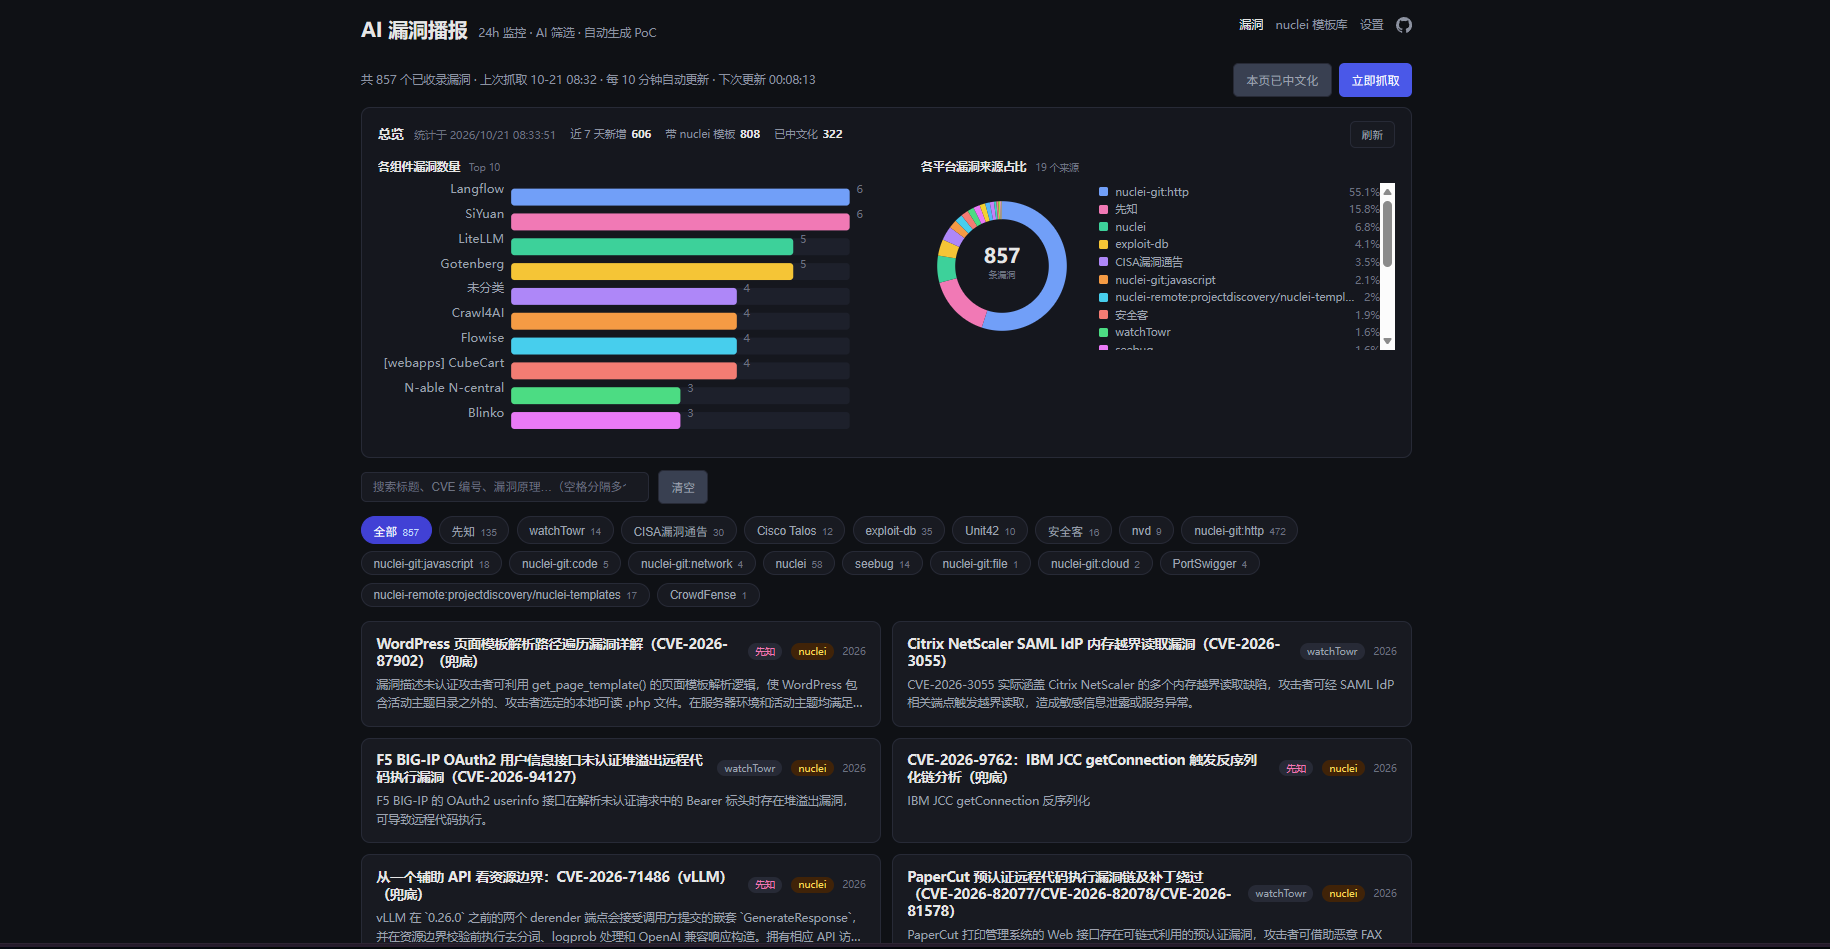
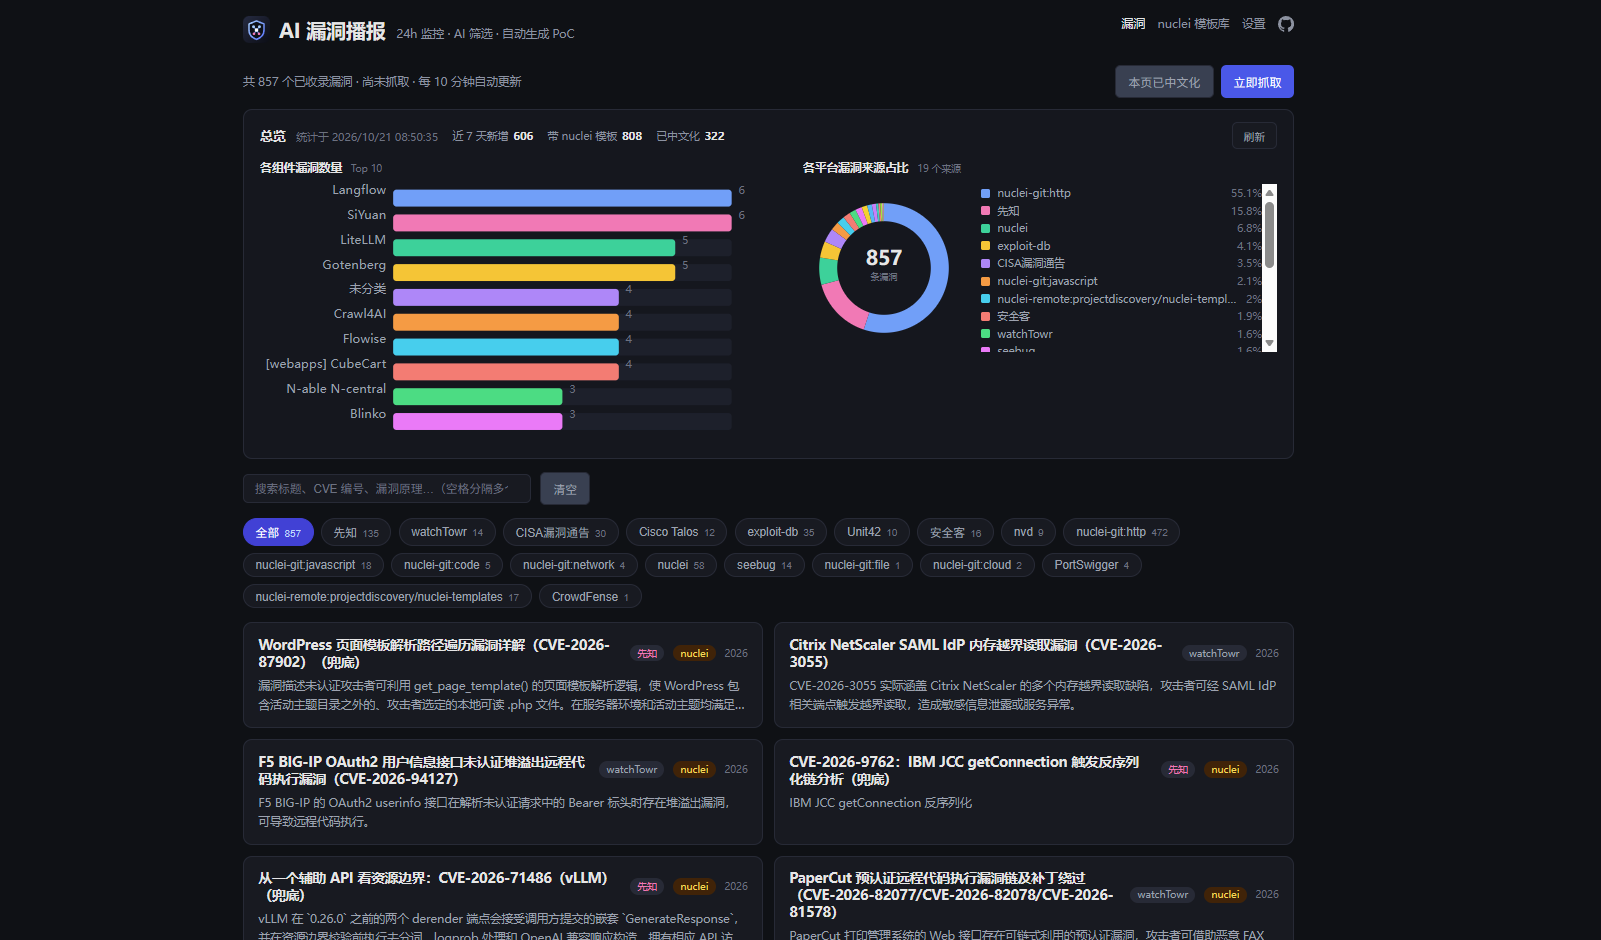
feat: 新增项目宣传图标与社交预览图
- 绘制 SVG 母版 icon.svg / icon-mini.svg / preview.svg
- 导出 PNG 产物：icon-512/256/180、favicon-32/64、apple-touch-icon、preview
- 前端接入 favicon、apple-touch-icon、OG/Twitter 卡片标签，header 加站点 logo
- README 中英文版顶部加宣传横幅

diff --git a/frontend/index.html b/frontend/index.html
@@ -17,6 +17,20 @@
                object-src 'none'; base-uri 'none'; form-action 'self'"
     />
     <title>AI 漏洞播报系统</title>
+    <!--
+      图标走自带的 public 目录，不引 CDN。favicon 用简化版（icon-mini），
+      小尺寸下细节才不会糊；apple-touch-icon 用同一张。
+    -->
+    <link rel="icon" type="image/svg+xml" href="/icon-mini.svg" />
+    <link rel="alternate icon" type="image/png" sizes="32x32" href="/favicon-32.png" />
+    <link rel="apple-touch-icon" href="/apple-touch-icon.png" />
+    <meta name="theme-color" content="#0f1115" />
+    <meta name="description" content="AI 赋能的漏洞播报系统：24 小时监控全网漏洞源，自动生成 PoC、漏洞原理与 nuclei 模板。" />
+    <!-- GitHub 社交预览图 -->
+    <meta property="og:title" content="AI 漏洞播报 · AI-Powered Vulnerability Intelligence Feed" />
+    <meta property="og:description" content="24 小时监控全网漏洞源，LLM 内容判定后自动生成 PoC、漏洞原理与 nuclei 模板。" />
+    <meta property="og:image" content="/preview.png" />
+    <meta name="twitter:card" content="summary_large_image" />
   </head>
   <body>
     <div id="app"></div>

diff --git a/frontend/src/App.vue b/frontend/src/App.vue
@@ -1,6 +1,8 @@
 <template>
   <div class="wrap">
     <header>
+      <!-- 站点图标：跟仓库头像同一套视觉，盾形 + 神经网络节点 -->
+      <img class="logo" src="/icon-mini.svg" alt="AI 漏洞播报" width="30" height="30" />
       <h1 @click="goList">AI 漏洞播报</h1>
       <span class="sub">24h 监控 · AI 筛选 · 自动生成 PoC</span>
       <nav>
@@ -62,6 +64,8 @@ body { background: #0f1115; color: #e6e6e6; font-family: system-ui, 'Microsoft Y
 .wrap { max-width: 1200px; margin: 0 auto; padding: 24px 16px 60px; }
 header { margin-bottom: 24px; cursor: default; }
 header h1 { font-size: 22px; cursor: pointer; display: inline-block; }
+/* 站点图标：跟标题文字对齐，垂直居中 */
+header .logo { width: 30px; height: 30px; vertical-align: -5px; margin-right: 10px; border-radius: 7px; }
 header .sub { margin-left: 12px; color: #8b93a1; font-size: 13px; }
 header nav { float: right; display: flex; align-items: center; gap: 14px; font-size: 13px; }
 header nav a { color: #8b93a1; display: inline-flex; align-items: center; }

diff --git a/README.md b/README.md
@@ -4,6 +4,8 @@
 
 简体中文 · [English](README.en.md)
 
+![AI 漏洞播报](preview.png)
+
 AI 赋能的漏洞播报系统，AI 根据公开的漏洞思路自动生成 PoC、漏洞简介、漏洞原理、攻击范围，自动落库存储，24 小时监控全网漏洞播报，可设置间隔时间自动抓取，默认每隔10分钟全网抓取一次。
 
 一切漏洞数据均源自公开渠道(论坛，社区等)，不涉及法律风险。

diff --git a/README.en.md b/README.en.md
@@ -4,6 +4,8 @@
 
 [简体中文](README.md) · English
 
+![AI Vulnerability Broadcast](preview.png)
+
 An AI-powered vulnerability broadcast system that monitors vulnerability disclosures around the clock. AI generates PoCs, summaries, root causes and attack surfaces from publicly disclosed exploitation logic, and stores them automatically.
 
 ---
